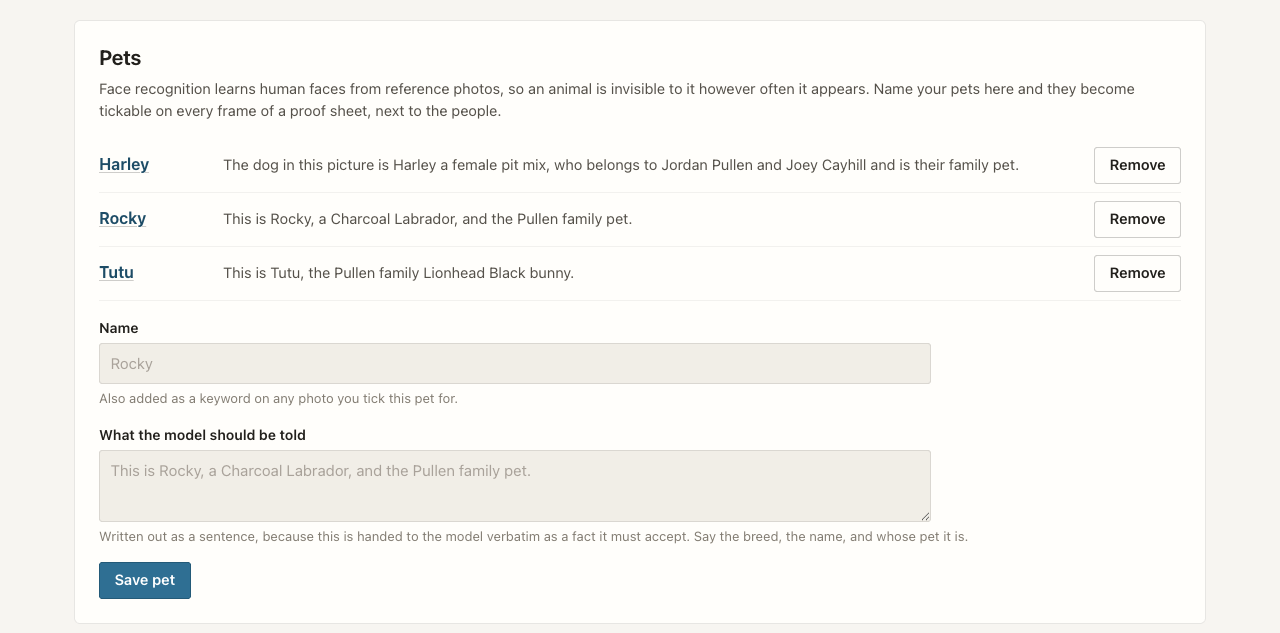
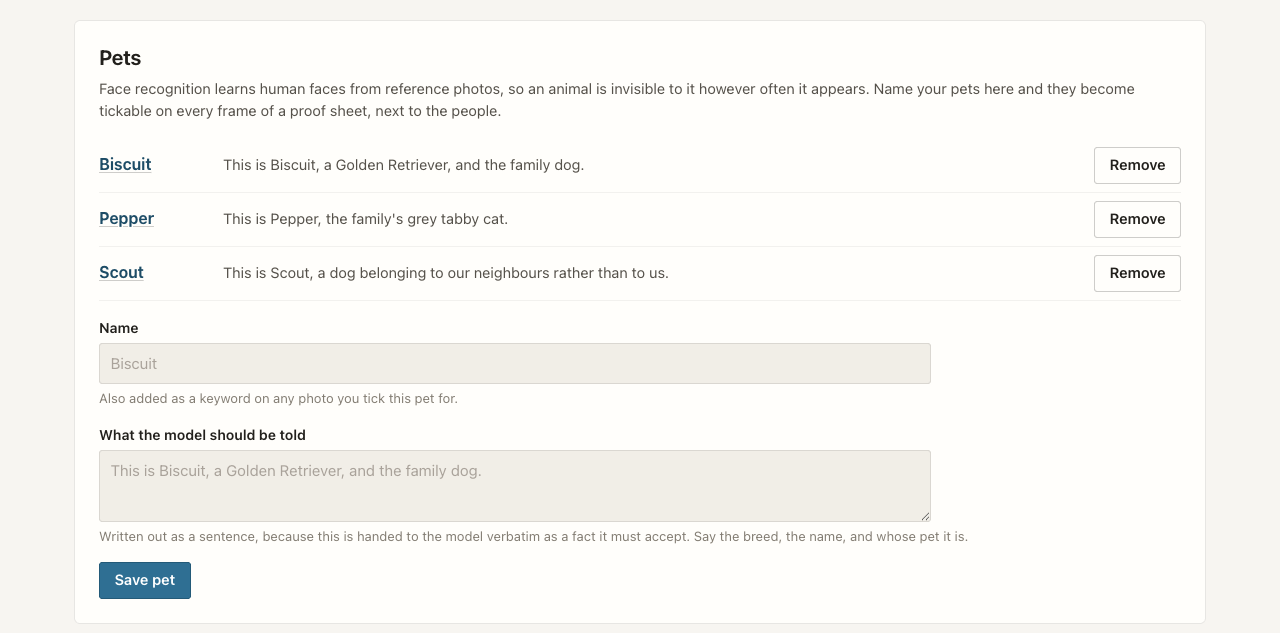
docs: replace real pet, family and address details with invented ones
Prompted by a good observation: a pet name is a stock security answer and a
plausible pretext at somebody's front door, so publishing the household's real
pet names in a public repository is a small but real exposure.

The screenshot that started it is reshot with invented pets, but the names were
never only in the screenshot - they were in 28 places across examples,
docstrings, comments and UI placeholder text, all of which ship publicly. One
invented household now runs through all of it: Biscuit the Golden Retriever,
Pepper the cat, Scout who belongs to the neighbours, and Ada and Sam as the
children in hint examples.

Two things found while sweeping for the same class of detail, both worse than
the pet names and both predating this branch:

  - DESIGN.md carried a locations.yaml example named after the author's house
    with a street address in it. Now "My House" at an obviously synthetic
    address, with a note that real coordinates belong in ~/.smugvision, outside
    the repository.
  - locations.yaml.example used real-looking coordinates and two real street
    addresses. Both are now zeroed placeholders, which an example file has no
    reason not to be.

Authorship is untouched: LICENSE, pyproject.toml and __author__ still name the
author, because that is his to publish and the point of a byline.

Two already-committed screenshots needed reshooting rather than editing, since
the real names were rendered into them: the proof-sheet header showed the old
[…]

diff --git a/smugvision/web/templates/hints.html b/smugvision/web/templates/hints.html
@@ -47,7 +47,7 @@
     <div class="field">
         <label for="global-hint">Global note</label>
         <textarea id="global-hint" rows="3"
-                  placeholder="e.g. Biscuit is a black Labrador Retriever. Ada and Sam are our children."></textarea>
+                  placeholder="e.g. Biscuit is a Golden Retriever. Ada and Sam are our children."></textarea>
         <p class="field-hint">Leave empty and save to remove the global note.</p>
     </div>
 
@@ -103,7 +103,7 @@
         <div class="field">
             <label for="pet-description">What the model should be told</label>
             <textarea id="pet-description" rows="2"
-                      placeholder="This is Biscuit, a Charcoal Labrador, and the family pet."></textarea>
+                      placeholder="This is Biscuit, a Golden Retriever, and the family dog."></textarea>
             <p class="field-hint">
                 Written out as a sentence, because this is handed to the model verbatim
                 as a fact it must accept. Say the breed, the name, and whose pet it is.

diff --git a/smugvision/web/static/js/preview.js b/smugvision/web/static/js/preview.js
@@ -840,7 +840,7 @@
      * Build a pet picker: one chip per configured pet.
      *
      * Separate from the people picker on purpose. A pet has no reference face and must
-     * never be counted as one, so ticking Biscuit adds his description to the prompt as
+     * never be counted as one, so ticking a pet adds its description to the prompt as
      * ground truth and his name to the keywords - it does not claim a face was found.
      *
      * @param {string} idPrefix unique per picker instance

diff --git a/smugvision/web/templates/preview.html b/smugvision/web/templates/preview.html
@@ -44,7 +44,7 @@
         <div class="field">
             <label for="album-hint">Album note</label>
             <textarea id="album-hint" rows="2"
-                      placeholder="e.g. This is Biscuit's 7th birthday party. Biscuit is a black Labrador."></textarea>
+                      placeholder="e.g. This is Biscuit's 7th birthday party. Biscuit is a Golden Retriever."></textarea>
         </div>
 
         <div class="field">

diff --git a/smugvision/web/static/css/style.css b/smugvision/web/static/css/style.css
@@ -2108,7 +2108,7 @@ dialog#confirm-write-modal {
 .picker-item.is-tile .picker-name {
     font-size: 0.78rem;
     max-width: 100%;
-    /* Wrap rather than ellipsise: "Sam Rive..." is worse than two short lines,
+    /* Wrap rather than ellipsise: "Alexandra Riv..." is worse than two short lines,
        and the equal-height labels below keep the row tidy when one name wraps. */
     white-space: normal;
     line-height: 1.25;

diff --git a/smugvision/web/static/js/faces.js b/smugvision/web/static/js/faces.js
@@ -105,7 +105,7 @@
         ]);
     }
 
-    /** "Eric Pullen" -> "EP". Falls back to the first character. */
+    /** "Ada Rivera" -> "AR". Falls back to the first character. */
     function initials(name) {
         const parts = String(name || '').trim().split(/\s+/).filter(Boolean);
         if (!parts.length) return '?';

diff --git a/smugvision/processing/pets.py b/smugvision/processing/pets.py
@@ -7,8 +7,8 @@ list of named animals and the sentence the model should be told about each one.
 The file lives at ``~/.smugvision/pets.yaml`` and looks like this::
 
     pets:
-      Biscuit: This is Biscuit, a Charcoal Labrador, and the family pet.
-      Willow: This is Willow, the family cat.
+      Biscuit: This is Biscuit, a Golden Retriever, and the family dog.
+      Pepper: This is Pepper, the family's grey tabby cat.
 
 The value is the whole sentence rather than a set of fields, because the sentence is
 what reaches the model and the user is better placed than a template to decide how
@@ -51,7 +51,7 @@ _FILE_HEADER = """# smugVision pets
 # the way you would want it said:
 #
 #   pets:
-#     Biscuit: This is Biscuit, a Charcoal Labrador, and the family pet.
+#     Biscuit: This is Biscuit, a Golden Retriever, and the family dog.
 #
 # The key is also added as a keyword on any photo the pet is ticked for.
 
@@ -212,7 +212,7 @@ class PetManager:
         Args:
             name: Pet name, also used as a keyword on tagged photos
             description: The sentence the model is told, e.g.
-                "This is Biscuit, a Charcoal Labrador, and the family pet."
+                "This is Biscuit, a Golden Retriever, and the family dog."
 
         Returns:
             The stored name, stripped

diff --git a/smugvision/processing/hints.py b/smugvision/processing/hints.py
@@ -9,13 +9,13 @@ subsequent caption of that photo (or album, or the whole library) respect it.
 Three scopes, applied most-general-first so a narrower hint reads as a refinement of a
 broader one rather than a contradiction:
 
-* ``global`` - true of every photo ("Biscuit is a black Labrador.")
+* ``global`` - true of every photo ("Biscuit is a Golden Retriever.")
 * ``album``  - true of one album, keyed by SmugMug album key
 * ``image``  - true of one image, keyed by SmugMug image key
 
 Storage is a hand-editable YAML file, ``~/.smugvision/hints.yaml`` by default::
 
-    global: "Biscuit is a black Labrador. Ada and Sam are our children."
+    global: "Biscuit is a Golden Retriever. Ada and Sam are our children."
     albums:
       Ab3kZq: "This is Biscuit's 7th birthday party."
     images:
@@ -56,7 +56,7 @@ _FILE_HEADER = """# smugVision hints
 #
 # Scopes are combined most-general-first: global, then the album, then the image.
 #
-#   global: "Biscuit is a black Labrador."
+#   global: "Biscuit is a Golden Retriever."
 #   albums:
 #     Ab3kZq: "This is Biscuit's 7th birthday party."
 #   images:

diff --git a/smugvision/processing/metadata.py b/smugvision/processing/metadata.py
@@ -61,7 +61,7 @@ class MetadataFormatter:
             # Add person names, but only those the model did not already name itself.
             # Vision models are given the recognized names as prompt context and now
             # usually work them into the sentence, so appending them unconditionally
-            # produced "Eric Pullen smiles ... Featuring Eric Pullen."
+            # produced "Nina Rivera smiles ... Featuring Nina Rivera."
             if person_names:
                 unmentioned = [
                     name for name in person_names if not self._mentions(caption_text, name)

diff --git a/smugvision/web/routes/api.py b/smugvision/web/routes/api.py
@@ -158,8 +158,8 @@ def save_pet():
     """Add or update one pet.
 
     Request body:
-        ``{"name": "Biscuit", "description": "This is Biscuit, a Charcoal Labrador, and
-        the family pet."}``
+        ``{"name": "Biscuit", "description": "This is Biscuit, a Golden Retriever,
+        and the family dog."}``
 
     The description is the exact sentence handed to the vision model as ground truth,
     so it is stored verbatim rather than assembled from fields.

diff --git a/README.md b/README.md
@@ -455,7 +455,7 @@ CLI and the web UI.
 Three scopes, which **accumulate** — global, then album, then image:
 
 ```yaml
-global: "Biscuit is a Charcoal Labrador. Ada and Sam are our children."
+global: "Biscuit is a Golden Retriever. Ada and Sam are our children."
 albums:
   Ab3kZq: "Biscuit's 7th birthday party."
 images:
@@ -496,8 +496,8 @@ of the web UI:
 
 ```yaml
 pets:
-  Biscuit: This is Biscuit, a Charcoal Labrador, and the family pet.
-  Pepper: This is Pepper, the family Lionhead Black bunny.
+  Biscuit: This is Biscuit, a Golden Retriever, and the family dog.
+  Pepper: This is Pepper, the family's grey tabby cat.
 ```
 
 ![The pets editor on the Hints page](docs/screenshots/08-pets-editor.png)

diff --git a/DESIGN.md b/DESIGN.md
@@ -281,14 +281,15 @@ Custom locations allow users to define friendly names for places like their home
 
 ```yaml
 locations:
+  # Coordinates and addresses in this file are deliberately synthetic. A real one
+  # belongs in ~/.smugvision/locations.yaml, which is outside the repository.
   - name: "My House"
-    latitude: 38.123456
-    longitude: -85.654321
+    latitude: 00.000000
+    longitude: -00.000000
     radius: 50                    # Match radius in meters
     address: "123 Example Street, Yourtown, ST"
     aliases:
       - "Home"
-      - "Example Residence"
   
   - name: "Louisville Slugger Field"
     latitude: 38.256510
